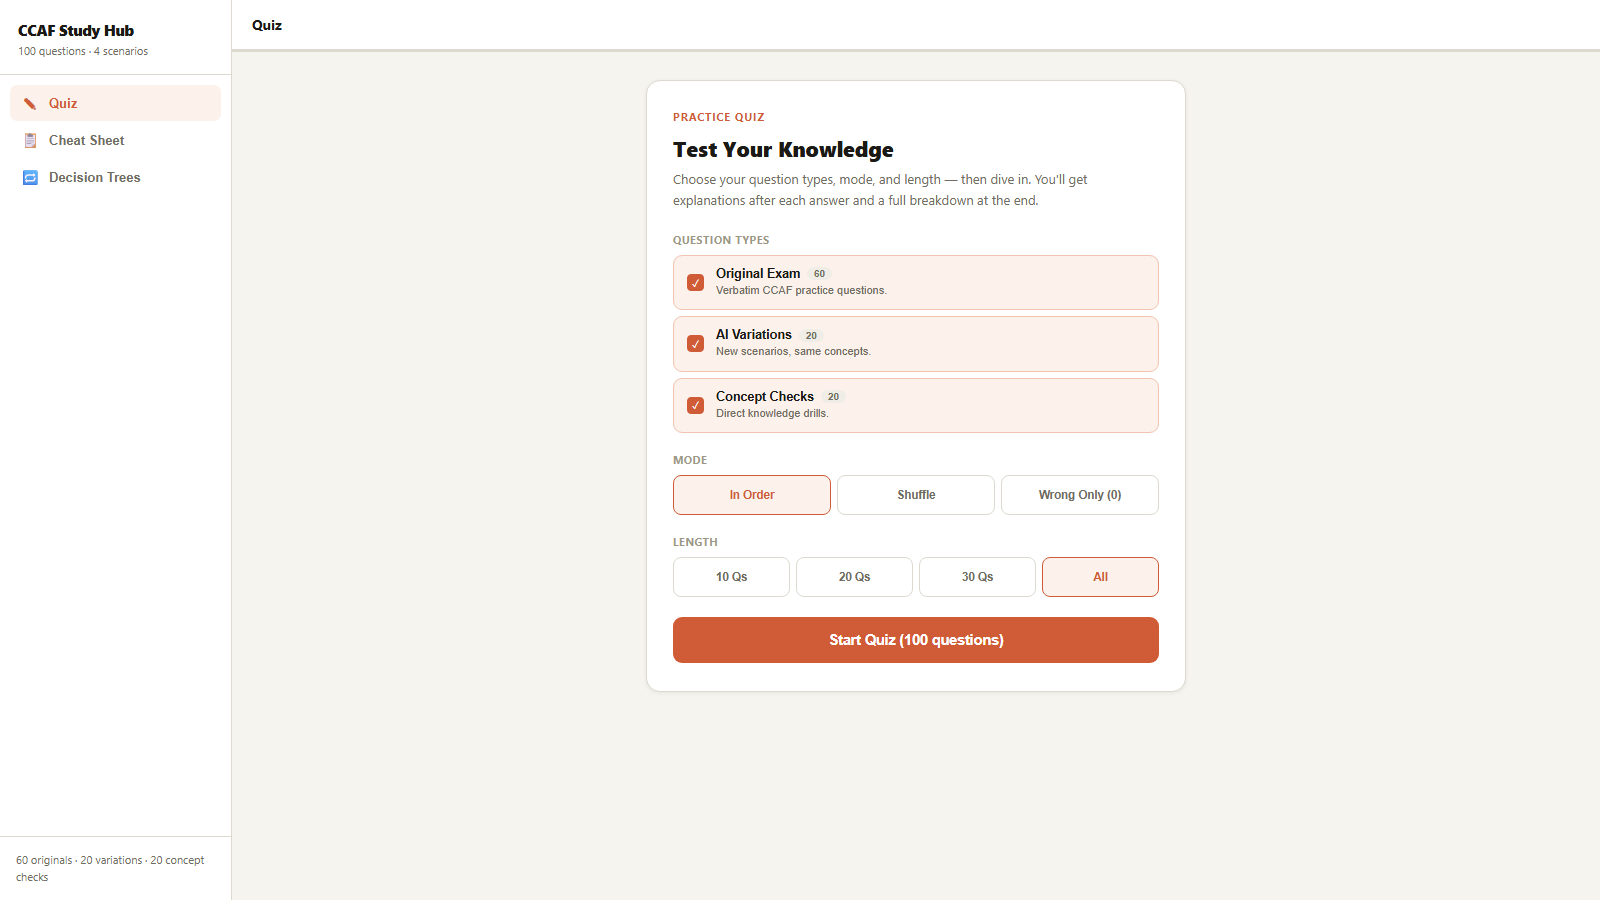
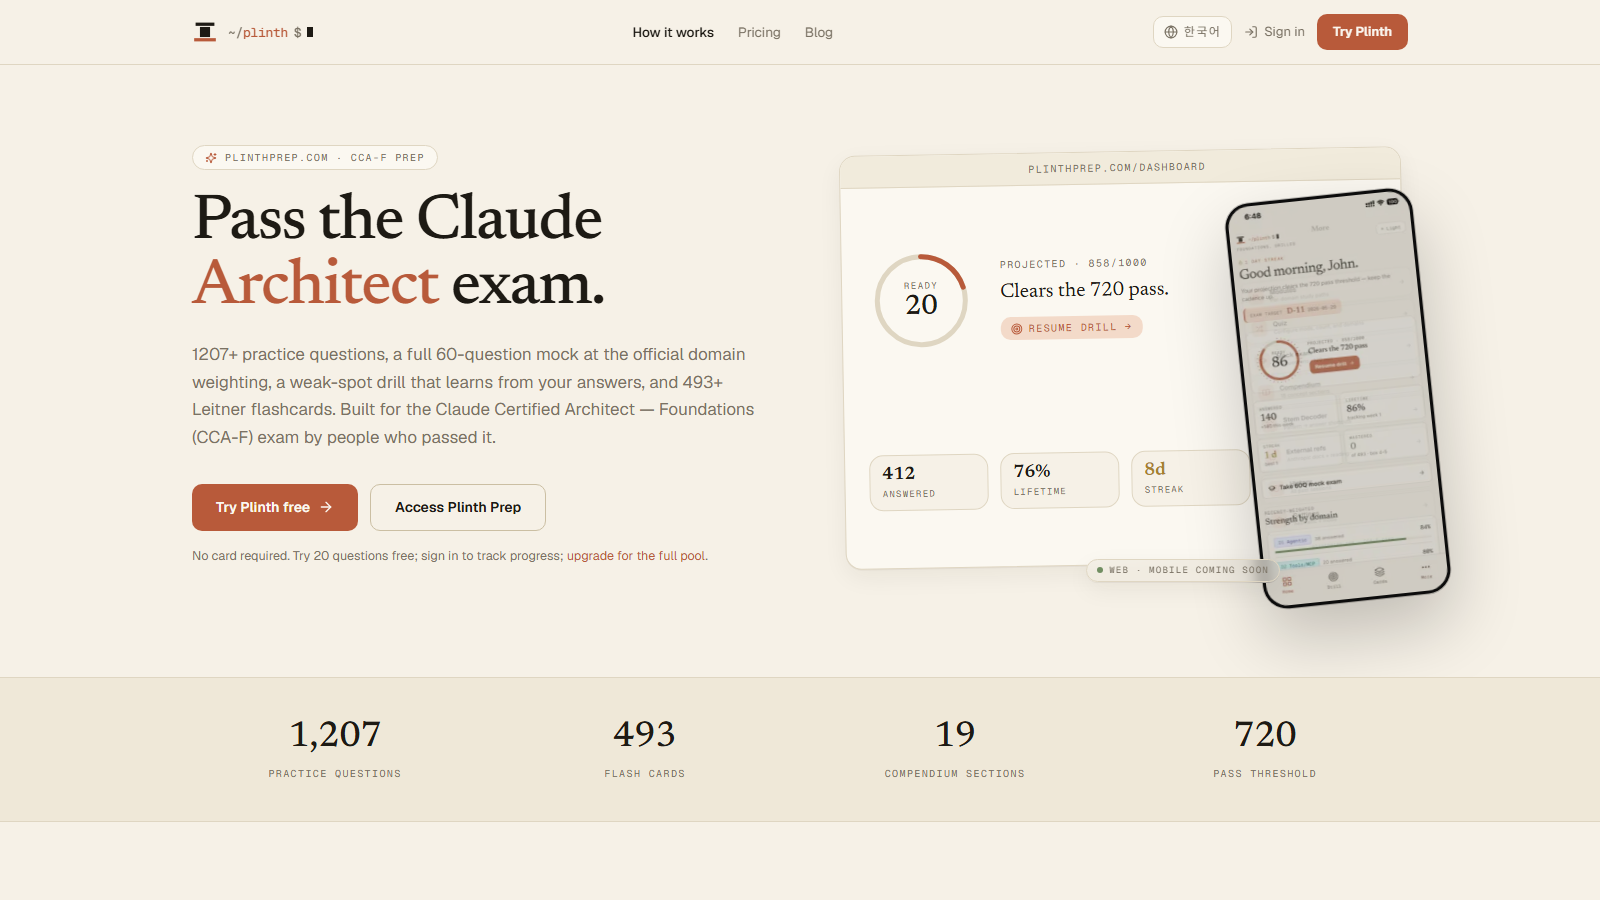
Update PlinthPrep card with real landing page and accurate product details

diff --git a/app/components/Portfolio.tsx b/app/components/Portfolio.tsx
@@ -60,9 +60,9 @@ const Portfolio = () => {
     },
     {
       id: 3,
-      title: "PlinthPrep — CCAF Study Hub",
+      title: "PlinthPrep — CCA-F Exam Prep",
       subtitle:
-        "Exam-prep platform for Anthropic's Claude Certified Architect: Foundational (CCA-F) — 100+ practice questions with AI-generated variations, concept checks, cheat sheets, and decision trees.",
+        "Exam-prep platform for Anthropic's Claude Certified Architect: Foundational (CCA-F) — 1,207+ practice questions, a full 60-question mock at official domain weighting, a weak-spot drill that learns from your answers, and 493+ Leitner flashcards. Built by people who passed.",
       images: ["/images/projects/plinthprep-ccaf.png"],
       demo: "https://www.plinthprep.com",
       tags: ["AI", "EdTech", "Claude API", "Next.js"],